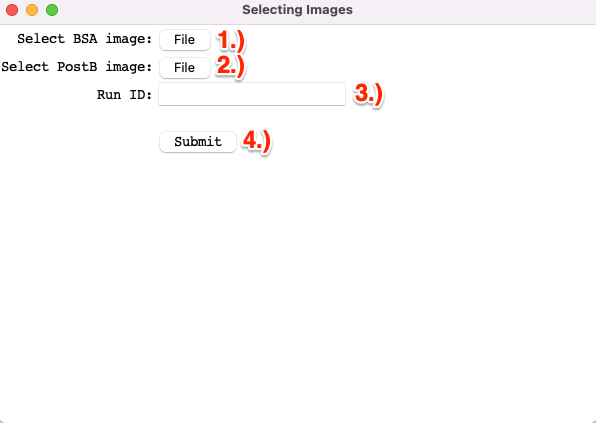
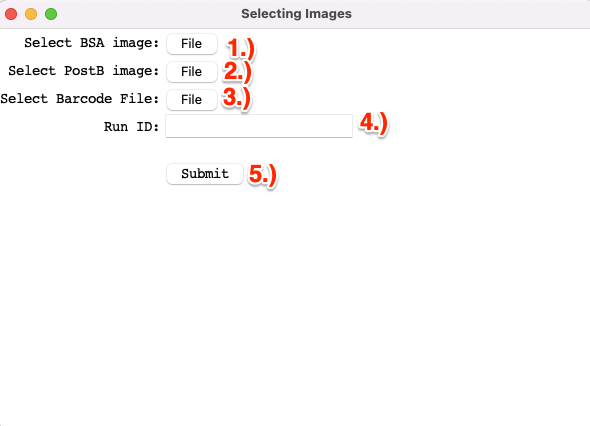
Added info about barcode file

diff --git a/docs/_build/html/searchindex.js b/docs/_build/html/searchindex.js
@@ -1,1 +1,1 @@
-Search.setIndex({docnames:["ExampleWalkthrough","ImageConfiguration","Installation","OpeningFolder","Overview","ROICharacterization","SpatialFolder","Thresholding","index"],envversion:{"sphinx.domains.c":2,"sphinx.domains.changeset":1,"sphinx.domains.citation":1,"sphinx.domains.cpp":4,"sphinx.domains.index":1,"sphinx.domains.javascript":2,"sphinx.domains.math":2,"sphinx.domains.python":3,"sphinx.domains.rst":2,"sphinx.domains.std":2,sphinx:56},filenames:["ExampleWalkthrough.rst","ImageConfiguration.rst","Installation.rst","OpeningFolder.rst","Overview.rst","ROICharacterization.rst","SpatialFolder.rst","Thresholding.rst","index.rst"],objects:{},objnames:{},objtypes:{},terms:{"0":[6,7],"1":[1,3,6],"100":[],"10x":4,"2":[1,3,6,7],"255":7,"3":[1,2,3,6],"4":[3,6],"5":[],"50":[],"6":[],"7":2,"8":7,"90":[0,1],"case":2,"do":[4,6,7],"function":6,"import":3,"long":1,"new":3,"return":2,"try":[],"while":[3,4,6],A:[3,4,5,6,7],As:[1,4,5,7],At:0,For:[0,2,5],If:[0,2,5],In:[0,1,3,5,6,7],On:[0,4,5],One:5,The:[0,1,3,4,5,6,7],Then:[0,3],These:[3,4,6],To:[0,2,3,5,7],With:[2,4],abl:[0,4,6],about:[0,4,5,6,8],abov:[0,1,3,4,5,7],abrows:2,accompani:6,accord:6,account:7,accur:0,aciv:[0,8],across:4,activ:[0,1,2,5,7],adap:0,adapt:[0,4,5,7],adher:4,adjust:[4,5],affect:0,after:[3,4,6],again:5,albumin:3,align:[0,5],all:[0,2,5,6,7],allow:[0,1,3,4,5,6],along:[5,6],also:[0,1,3,4],alwai:0,amend:5,an:[0,2,3,4,5,6,7],anaconda:2,analysi:4,ani:[2,3,4,5,6],appear:[0,3,5],ar:[0,1,3,4,5,6,7],area:1,aspect:4,assai:4,associ:[0,3,4],assumpt:7,atla:2,atlasbrow:5,atlasxbrows:[0,3,4,5,6],atlasxom:[2,8],automat:5,avaiabl:4,avail:2,azur:[],b:[3,4,5],back:[0,4,5,6],background:5,barcod:[4,5,6],base:[0,5,7],basi:4,been:[0,1,3,4,5,6],befor:2,begin:[0,1,3,4],being:[0,1,4,5,7],below:[0,1,4,5,7],between:[0,1,7],binar:[4,5,7],bioinformat:4,biolog:[0,4,7],black:[0,5,7],blocksiz:[0,6,7],blue:[],border:0,both:[0,3,4,5,6],bottom:0,boundari:4,bovin:3,box:[0,1,5],brightfi:4,brightfield:3,broswer:[],browser:[0,1,2,3,5,6],bsa:[0,3,4,5,6],buffer:0,built:4,button:[0,1,5,7],bw:5,c:[0,2,7],calcul:7,call:[4,5],can:[0,1,2,3,4,5,6,7],captur:1,caus:7,cd:2,chang:[0,1,5,6],channel:[0,3,4,5],character:8,check:[0,2,5],chip:[0,1,3,4,5],choos:6,chosen:[0,6],circl:5,clamp:4,classif:[0,4,5,7],classifi:7,clear:[0,3,5],click:[0,1,5,6],clockwis:[0,1],clone:2,close:5,cluster:4,codebas:2,color:[0,3,5,6,7],column:[5,6],com:2,combin:5,come:5,command:2,common:[],commun:4,comput:1,conda:2,confid:[0,5],configur:[0,3,7,8],confirm:[0,1,5,7],conjunct:4,consid:4,constant:7,contain:[0,1,3,4,5,6],content:6,context:4,continu:3,contrast:[0,7],control:[4,6],convers:7,convert:7,coordin:[4,5,6],corner:[0,1,3,5,6],correspond:[0,3,4,5,6,7],count:[4,6],counter:[0,1],coupl:4,cover:[0,5],creat:[0,2,3,4,5,6,7],criteria:1,crop:[0,5,6,8],csv:6,current:[0,2],dark:0,darker:7,data:4,date:2,dbit:[4,5],deactiv:2,decis:[0,6],decreas:7,defin:[0,5],degre:[0,1,6],delin:[4,6],delini:[],demand:1,depend:8,describ:[1,7],design:[5,6,7],desir:[0,1,3,5,7],determin:[0,7],differ:[0,1,3,7],digit:7,directli:[0,6,7],directori:[0,2,3,6],discern:5,discret:7,displai:[0,5,6],dissapear:3,distanc:4,distribut:2,divid:7,dna:4,doe:7,done:[3,5,7],down:4,download:8,drag:[0,1,5],drawn:[0,5],due:1,dure:[5,6],dy:5,dye:[0,3,5],each:[0,1,3,4,5,6,7],easi:[3,4],easier:[3,5],edg:5,edit:0,either:[0,5,7],els:7,encapsul:1,enclos:[1,3],encod:4,encompass:5,enough:7,ensur:[0,2,5],enter:[0,6,8],entir:[0,1],envior:2,enviro:2,epifluoresc:[3,4],error:3,essenti:7,everi:[0,5],everyth:7,exactli:5,examin:[5,8],exampl:[4,8],excess:1,expand:0,expect:5,experi:[0,3,4,5],extra:0,facilit:[4,8],factor:7,far:7,fastai:2,featur:6,figur:4,file:[0,3,6],fill:[0,5],find:[6,7],fine:1,first:[0,3],fit:0,fix:[],flip:[0,5,6],flow:[3,4,5],flown:[3,4,5],fluid:5,fluoresc:[0,4,5,8],folder:[0,4,5,8],follow:[0,2,3,4,6],forc:1,forg:2,form:6,format:4,formazion:[],formerli:5,forth:5,found:6,four:[1,5,6],freeli:2,from:[0,1,3,4,5,6,7],fulli:5,futur:1,gene:6,gener:[3,4,6],git:2,github:2,given:7,glass:4,goal:4,goe:1,good:[0,7],gradient:[0,7],graphic:8,green:0,grid:[0,5,6,7],group:4,guess:[],guid:[2,4,7,8],ha:[0,1,3,4,5,6,7],had:4,hand:5,harm:0,have:[0,3,4,5],headless:2,height:6,help:4,here:[0,2,4,6],high:[0,6],highli:[2,3],highlight:[],horizont:[0,4,5],host:2,how:[0,3,4,5,7],howev:[0,6],http:2,hypothet:0,i_l:7,id:[0,3],ideal:[5,7],ident:6,identif:3,identifi:[4,5,6],imag:[0,4,5,6,7,8],inclu:0,includ:[0,4,5,6],incorpor:4,index:6,indic:[5,6],indifi:0,individu:5,infer:[4,7],inform:[4,5,6],infrenc:[],input:[],insight:4,instal:8,intens:[1,7],interest:[0,3,4,6,8],interfac:8,interrog:4,isntal:2,item:6,its:0,itself:1,jsbeautifi:2,json:6,just:5,kept:1,knowledg:5,label:[0,3,6],labl:0,larg:7,larger:[4,7],last:5,latest:2,layer:5,lead:7,learn:8,leav:1,left:[0,2,3,6],less:1,level:[],light:[0,7],like:4,limit:6,line:[0,1,5],list:[0,2],load:[0,1,4,8],local:[2,7],locat:[0,3,6,8],log:6,lose:4,low:[0,6],luckili:2,machin:2,made:[0,3,5,6],magic:[],mai:3,main:3,make:[1,3,4,5,7],manag:8,mani:[0,1,5,7],manual:6,map:[4,5,6],matplotlib:2,maxim:0,mean:[0,5,7],metadata:[4,6,8],microfluid:[],microscop:3,minim:6,misclassifi:7,mix:3,modifi:5,modul:[],molecular:4,more:[7,8],most:6,mous:[1,5],move:1,much:[3,5,7],multipl:[2,5,6],must:[0,2,3,5,6,7],name:[2,3],narrow:5,navig:[0,1,2,3,5,6,7],necessari:[0,2,4],necissari:0,neither:4,neon:[1,5],newli:[5,6],next:5,non:7,note:[0,1,3,5],notic:[0,3],now:[0,1,3],number:[6,7],observ:[5,7],obtain:4,occur:[3,4],off:[0,1,4,5,6,7],omic:[4,8],onc:[0,1,2,3,4,5,6,7],one:[0,1,5,6,7],onto:[0,4,5],ontop:[4,5,7],open:[2,6],opencv:2,opportun:0,optim:[0,7],option:[0,5,6],order:[0,1,3,6,7],orient:[0,1,3,5,6],origin:[0,6],other:4,our:4,out:1,outcom:7,outer:[0,5],outlin:1,output:4,outsid:[0,2,3,5],over:[0,5],overfit:7,overlai:[0,8],overlap:[3,4,5],overview:8,packag:[2,4],page:[],panda:2,paralel:4,paramet:8,part:7,particular:[0,3,4],pattern:5,peopl:4,pertain:3,pictur:4,piec:[],pillow:2,pip:[],pipelin:[],pixel:[0,5,6,7],place:[0,1,4,5],placement:[0,5],plane:4,png:6,point:[0,3,4,5,7],pop:[0,3],popup:[0,3,5],portion:0,possibilit:7,possibl:[1,5],postb:[0,3],practic:5,precis:0,predict:[4,5,6],preform:4,prepar:[3,4],present:[],preserv:5,previou:[0,5],previous:0,primari:[],problem:[],proce:[0,3],procedur:[],process:[0,1,3,4,5,6,7,8],produc:[0,7],program:1,prompt:[],proper:[2,3,5],properli:[0,1,2,5,7],proport:7,provd:[],pull:2,pure:7,py37:2,py:2,python:2,qualiti:[4,6],rang:7,raw:6,re:[0,1,5,6],reactiv:2,read:[4,5,6],readi:2,reason:[2,5],reccomend:[2,3],reciev:7,reconfigur:1,rectangl:[0,5],red:[0,1,5],refer:7,region:[0,3,4,7,8],regul:7,relev:[3,6],reli:[],reliant:4,remain:0,rememb:7,remov:[3,4],repeat:2,requir:[0,2,3],research:4,resolut:6,respect:6,rest:[1,7],result:[1,4,5,7],review:0,right:[0,1,3,4,5,7],risk:7,roi:[0,1,3,4,6,8],role:[],room:0,rotat:[0,3,6,8],row:[0,3,4,5,6],run:[0,3,4,7,8],s:[1,6],said:6,same:[0,3,5],sampl:4,save:[3,6],scipi:2,screen:[0,1,3,5,7],seaborn:2,search:[],second:[0,3],section:[0,1,3,4,5,7],see:[0,2,3],seek:[],seen:[0,4],select:[0,1,3,5,6,7],sent:[],seq:[4,5],sequenc:[4,5],serum:3,serv:5,set:[0,3,6],shap:1,should:[0,2,3,5],show:5,shown:[0,4,5],side:[0,1,2,4,5,7],site:[4,5,7],size:7,slide:[4,5,7],slider:[0,7],small:7,smaller:7,so:[4,7],softwar:2,solut:3,solv:[],some:0,somewhat:7,sourc:2,space:[1,4],spatial:[0,3,4,5,8],specif:[6,8],specifc:2,specifi:[0,6],spot:4,squar:[0,1,3,5],stage:5,stain:[0,4,5,8],start:6,state:[0,5,6],step:[0,1,3,4,5,6,7],still:1,store:[3,6],stretch:0,submit:[0,3],subtract:7,system:2,t:7,tab:[0,1,3,5,6,7],take:[4,7],taken:[3,4,6,7],techniqu:4,technolog:1,term:[],termin:2,textbox:3,than:7,thei:[0,3,4,5,6],them:[0,1,5],theme:[],theshold:0,thi:[0,1,2,3,4,5,6,7],those:7,three:6,threshold:[0,4,5,6,8],thresholdingt:[],through:[0,3,4,5,6],thu:7,tifffil:2,time:[0,1],tissu:[0,4,5,6,7,8],tissue_highres_imag:6,tissue_lowres_imag:6,tissue_positions_list:6,tissue_positions_list_log_umi_gen:6,titl:[3,6],tixel:[0,4,6,7,8],too:7,top:[0,3,5],total:6,transform:6,truli:7,ttk:[],tune:8,turn:[0,7],two:[3,4,7],umap:4,umi:[4,6],under:[0,1,5,6,7],underli:[3,5],understand:7,unexpand:1,uniform:7,uniqu:[0,4,5,6],unlik:0,unnecessari:1,until:2,up:[0,2,3],updat:2,upon:[0,1,3,5,6],us:[0,1,2,3,4,5,6,7,8],usag:2,user:[0,3,4,5,6,8],util:[1,8],valid:[0,5],valu:[0,6,7],variabl:7,variou:1,veri:3,versa:5,version:[0,2,6],vertic:[0,4,5],vice:5,view:[0,5,6],virtual:2,visium:4,visual:[3,5,6],vs:7,wa:[1,2,3,4,5,6],wai:5,want:[0,2,3,5,6],we:[0,1,2,3,5,7],well:[2,4,5,6],were:6,what:[0,4,5,6],whatev:[0,3],when:[0,1,5,6,7],where:[2,3,7],whether:[0,6,7],which:[0,3,4,5,6,7],white:[0,5,7],why:1,window:[0,2,3],within:[0,1,3,4,5,6,7],without:[3,4],work:[0,4,5],workflow:4,would:[],x:[4,5,6],xx:2,y:[4,5,6],you:[0,2,5],your:[0,1,2,5,6]},titles:["Guided Example","Image Configuration","Installation","Loading Tissue images","Overview","Characterizing Region of Interest","Utilizing Spatial Folder","Thresholding","Welcome to AtlasXbrowser\u2019s Documentation!"],titleterms:{aciv:5,atlasxbrows:[2,8],character:5,configur:1,crop:1,depend:2,document:8,download:2,enter:3,examin:6,exampl:[0,7],fluoresc:3,folder:[3,6],guid:0,imag:[1,3],indic:[],instal:2,interest:5,load:[3,6],locat:5,manag:2,metadata:3,overlai:5,overview:4,paramet:7,region:5,roi:5,rotat:1,run:2,s:8,section:8,spatial:6,specif:3,stain:3,tabl:[],threshold:7,thresholdingt:[],tissu:3,tixel:5,tune:7,util:6,welcom:8}})
+Search.setIndex({docnames:["ExampleWalkthrough","ImageConfiguration","Installation","OpeningFolder","Overview","ROICharacterization","SpatialFolder","Thresholding","index"],envversion:{"sphinx.domains.c":2,"sphinx.domains.changeset":1,"sphinx.domains.citation":1,"sphinx.domains.cpp":4,"sphinx.domains.index":1,"sphinx.domains.javascript":2,"sphinx.domains.math":2,"sphinx.domains.python":3,"sphinx.domains.rst":2,"sphinx.domains.std":2,sphinx:56},filenames:["ExampleWalkthrough.rst","ImageConfiguration.rst","Installation.rst","OpeningFolder.rst","Overview.rst","ROICharacterization.rst","SpatialFolder.rst","Thresholding.rst","index.rst"],objects:{},objnames:{},objtypes:{},terms:{"0":[6,7],"1":[1,3,6],"100":[],"10x":4,"16":3,"2":[1,3,6,7],"2500":3,"255":7,"3":[1,2,3,6],"4":[3,6],"5":3,"50":3,"6":[],"7":2,"8":[3,7],"90":[0,1],"case":2,"do":[4,6,7],"function":6,"import":3,"long":1,"new":3,"return":2,"try":[],"while":[3,4,6],A:[3,4,5,6,7],As:[1,3,4,5,7],At:0,For:[0,2,5],If:[0,2,5],In:[0,1,3,5,6,7],On:[0,4,5],One:5,The:[0,1,3,4,5,6,7],Then:[0,3],These:[3,4,6],To:[0,2,3,5,7],With:[2,3,4],_:[],abl:[0,4,6],about:[0,4,5,6,8],abov:[0,1,3,4,5,7],abrows:2,accompani:6,accord:6,account:7,accur:0,aciv:[0,8],across:4,activ:[0,1,2,5,7],adap:0,adapt:[0,4,5,7],adher:4,adjust:[4,5],affect:0,after:[3,4,6],again:5,albumin:3,align:[0,5],all:[0,2,5,6,7],allow:[0,1,3,4,5,6],along:[5,6],also:[0,1,3,4],alwai:0,amend:5,an:[0,2,3,4,5,6,7],anaconda:2,analysi:4,ani:[2,3,4,5,6],appear:[0,3,5],ar:[0,1,3,4,5,6,7],area:1,aspect:4,assai:4,associ:[0,3,4],assumpt:7,atla:2,atlasbrow:5,atlasxbrows:[0,3,4,5,6],atlasxom:[2,8],automat:5,avaiabl:4,avail:2,azur:[],b:[3,4,5],back:[0,4,5,6],background:5,barcod:[4,5,6,8],base:[0,5,7],basi:4,bc50v1:3,been:[0,1,3,4,5,6],befor:2,begin:[0,1,3,4],being:[0,1,4,5,7],below:[0,1,4,5,7],between:[0,1,7],binar:[4,5,7],bioinformat:4,biolog:[0,4,7],black:[0,5,7],blocksiz:[0,6,7],blue:[],border:0,both:[0,3,4,5,6],bottom:0,boundari:4,bovin:3,box:[0,1,5],brightfi:4,brightfield:3,broswer:[],browser:[0,1,2,3,5,6],bsa:[0,3,4,5,6],buffer:0,built:4,button:[0,1,5,7],bw:5,c:[0,2,7],calcul:7,call:[4,5],can:[0,1,2,3,4,5,6,7],captur:1,caus:7,cd:2,chang:[0,1,5,6],channel:[0,3,4,5],character:8,check:[0,2,5],chip:[0,1,3,4,5],choos:6,chosen:[0,6],circl:5,clamp:4,classif:[0,4,5,7],classifi:7,clear:[0,3,5],click:[0,1,5,6],clockwis:[0,1],clone:2,close:5,cluster:4,codebas:2,color:[0,3,5,6,7],column:[5,6],com:2,combin:5,come:[3,5],command:2,common:[],commun:4,comput:1,conda:2,confid:[0,5],configur:[0,3,7,8],confirm:[0,1,5,7],conjunct:4,consid:4,constant:7,contain:[0,1,3,4,5,6],content:6,context:4,continu:3,contrast:[0,7],control:[4,6],convers:7,convert:7,coordin:[4,5,6],corner:[0,1,3,5,6],correspond:[0,3,4,5,6,7],count:[4,6],counter:[0,1],coupl:4,cover:[0,5],creat:[0,2,3,4,5,6,7],criteria:1,crop:[0,5,6,8],csv:6,current:[0,2],dark:0,darker:7,data:4,date:2,dbit:[3,4,5],deactiv:2,decis:[0,6],decreas:7,defin:[0,3,5],degre:[0,1,6],delin:[4,6],delini:[],demand:1,depend:8,describ:[1,7],design:[5,6,7],desir:[0,1,3,5,7],determin:[0,7],differ:[0,1,3,7],digit:7,directli:[0,6,7],directori:[0,2,3,6],discern:5,discret:7,displai:[0,5,6],dissapear:3,distanc:4,distribut:2,divid:7,dna:4,doe:[3,7],done:[3,5,7],down:4,download:8,drag:[0,1,5],drawn:[0,5],due:1,dure:[5,6],dy:5,dye:[0,3,5],each:[0,1,3,4,5,6,7],eas:3,easi:[3,4],easier:[3,5],edg:5,edit:0,either:[0,5,7],els:7,encapsul:1,enclos:[1,3],encod:4,encompass:5,enough:7,ensur:[0,2,5],enter:[0,6,8],entir:[0,1],envior:2,enviro:2,epifluoresc:[3,4],error:3,essenti:[3,7],everi:[0,5],everyth:7,exactli:5,examin:[5,8],exampl:[3,4,8],excess:1,expand:0,expect:5,experi:[0,3,4,5],extra:0,facilit:[4,8],factor:7,far:7,fastai:2,featur:6,figur:4,file:[0,3,6],fill:[0,5],find:[6,7],fine:1,first:[0,3],fit:0,fix:[],flip:[0,5,6],flow:[3,4,5],flown:[3,4,5],fluid:5,fluoresc:[0,4,5,8],folder:[0,4,5,8],follow:[0,2,3,4,6],forc:1,forg:2,form:6,format:4,formazion:[],formerli:5,forth:5,found:[3,6],four:[1,5,6],freeli:2,from:[0,1,3,4,5,6,7],fulli:5,futur:1,gene:6,gener:[3,4,6],git:2,github:[2,3],given:7,glass:4,goal:4,goe:1,good:[0,7],gradient:[0,7],graphic:8,green:0,grid:[0,5,6,7],group:4,guess:[],guid:[2,4,7,8],ha:[0,1,3,4,5,6,7],had:4,hand:5,harm:0,have:[0,3,4,5],headless:2,height:6,help:[3,4],here:[0,2,4,6],high:[0,6],highli:[2,3],highlight:[],horizont:[0,4,5],host:2,how:[0,3,4,5,7],howev:[0,6],http:2,hypothet:0,i_l:7,id:[0,3],ideal:[5,7],ident:6,identif:3,identifi:[4,5,6],imag:[0,4,5,6,7,8],inclu:0,includ:[0,4,5,6],incorpor:4,index:6,indic:[5,6],indifi:0,individu:5,infer:[4,7],inform:[4,5,6],infrenc:[],input:[],insight:4,instal:8,intens:[1,7],interest:[0,3,4,6,8],interfac:8,interrog:4,isntal:2,item:6,its:0,itself:1,jsbeautifi:2,json:6,just:5,kept:1,know:3,knowledg:5,label:[0,3,6],labl:0,larg:7,larger:[4,7],last:5,latest:2,layer:5,lead:7,learn:8,leav:1,left:[0,2,3,6],less:1,level:[],light:[0,7],like:4,limit:6,line:[0,1,3,5],list:[0,2],load:[0,1,4,8],local:[2,7],locat:[0,3,6,8],log:6,lose:4,low:[0,6],luckili:2,machin:2,made:[0,3,5,6],magic:[],mai:3,main:3,make:[1,3,4,5,7],manag:8,mani:[0,1,5,7],manual:6,map:[4,5,6],matplotlib:2,maxim:0,mean:[0,5,7],metadata:[4,6,8],microfluid:[],microscop:3,minim:6,misclassifi:7,mix:3,modifi:5,modul:[],molecular:4,more:[7,8],most:6,mous:[1,5],move:1,much:[3,5,7],multipl:[2,5,6],must:[0,2,3,5,6,7],name:[2,3],narrow:5,navig:[0,1,2,3,5,6,7],necessari:[0,2,4],necissari:0,need:3,neither:4,neon:[1,5],newli:[5,6],next:5,non:7,note:[0,1,3,5],notic:[0,3],now:[0,1,3],nucleotid:3,number:[6,7],observ:[5,7],obtain:4,occur:[3,4],off:[0,1,4,5,6,7],omic:[4,8],onc:[0,1,2,3,4,5,6,7],one:[0,1,3,5,6,7],onto:[0,4,5],ontop:[4,5,7],open:[2,6],opencv:2,opportun:0,optim:[0,7],option:[0,5,6],order:[0,1,3,6,7],orient:[0,1,3,5,6],origin:[0,6],other:4,our:4,out:1,outcom:7,outer:[0,5],outlin:1,output:4,outsid:[0,2,3,5],over:[0,5],overfit:7,overlai:[0,8],overlap:[3,4,5],overview:8,packag:[2,4],page:[],panda:2,paralel:4,paramet:8,part:7,particular:[0,3,4],pattern:5,peopl:4,pertain:3,pictur:4,piec:[],pillow:2,pip:[],pipelin:[],pixel:[0,5,6,7],place:[0,1,3,4,5],placement:[0,5],plane:4,png:6,point:[0,3,4,5,7],pop:[0,3],popup:[0,3,5],portion:0,possibilit:7,possibl:[1,5],postb:[0,3],practic:5,precis:0,predict:[4,5,6],preform:4,prepar:[3,4],present:[],preserv:5,previou:[0,5],previous:0,primari:[],problem:[],proce:[0,3],procedur:[],process:[0,1,3,4,5,6,7,8],produc:[0,7],program:1,prompt:[],proper:[2,3,5],properli:[0,1,2,5,7],proport:7,provd:[],pull:2,pure:7,py37:2,py:2,python:2,qualiti:[4,6],rang:7,raw:6,re:[0,1,5,6],reactiv:2,read:[4,5,6],readi:2,reason:[2,5],reccomend:[2,3],reciev:7,reconfigur:1,rectangl:[0,5],red:[0,1,5],refer:7,region:[0,3,4,7,8],regul:7,relev:[3,6],reli:[],reliant:4,remain:0,rememb:7,remov:[3,4],repeat:2,requir:[0,2,3],research:4,resolut:6,respect:6,rest:[1,7],result:[1,4,5,7],review:0,right:[0,1,3,4,5,7],risk:7,roi:[0,1,3,4,6,8],role:[],room:0,rotat:[0,3,6,8],row:[0,3,4,5,6],run:[0,3,4,7,8],s:[1,6],said:6,same:[0,3,5],sampl:4,save:[3,6],scipi:2,screen:[0,1,3,5,7],seaborn:2,search:[],second:[0,3],section:[0,1,3,4,5,7],see:[0,2,3],seek:[],seen:[0,4],select:[0,1,3,5,6,7],sent:[],seq:[4,5],sequenc:[3,4,5],serum:3,serv:5,set:[0,3,6],shap:1,should:[0,2,3,5],show:5,shown:[0,4,5],side:[0,1,2,4,5,7],site:[4,5,7],size:7,slide:[4,5,7],slider:[0,7],small:7,smaller:7,so:[4,7],softwar:2,solut:3,solv:[],some:0,somewhat:7,sourc:2,space:[1,4],spatial:[0,3,4,5,8],specif:[6,8],specifc:2,specifi:[0,6,8],spot:4,squar:[0,1,3,5],stage:5,stain:[0,4,5,8],start:6,state:[0,5,6],step:[0,1,3,4,5,6,7],still:1,store:[3,6],stretch:0,submit:[0,3],subtract:7,system:2,t:7,tab:[0,1,3,5,6,7],take:[4,7],taken:[3,4,6,7],techniqu:4,technolog:1,term:[],termin:2,textbox:3,than:7,thei:[0,3,4,5,6],them:[0,1,5],theme:[],theshold:0,thi:[0,1,2,3,4,5,6,7],third:3,those:7,three:6,threshold:[0,4,5,6,8],thresholdingt:[],through:[0,3,4,5,6],thu:7,tifffil:2,time:[0,1],tissu:[0,4,5,6,7,8],tissue_highres_imag:6,tissue_lowres_imag:6,tissue_positions_list:6,tissue_positions_list_log_umi_gen:6,titl:[3,6],tixel:[0,3,4,6,7,8],too:7,top:[0,3,5],total:6,transform:6,truli:7,ttk:[],tune:8,turn:[0,7],two:[3,4,7],txt:3,umap:4,umi:[4,6],under:[0,1,5,6,7],underli:[3,5],understand:7,unexpand:1,uniform:7,uniqu:[0,3,4,5,6],unlik:0,unnecessari:1,until:2,up:[0,2,3],updat:2,upon:[0,1,3,5,6],us:[0,1,2,3,4,5,6,7,8],usag:2,user:[0,3,4,5,6,8],util:[1,8],valid:[0,5],valu:[0,6,7],variabl:7,variou:1,veri:3,versa:5,version:[0,2,6],vertic:[0,4,5],vice:5,view:[0,5,6],virtual:2,visium:4,visual:[3,5,6],vs:7,wa:[1,2,3,4,5,6],wai:5,want:[0,2,3,5,6],we:[0,1,2,3,5,7],well:[2,4,5,6],were:6,what:[0,4,5,6],whatev:[0,3],when:[0,1,5,6,7],where:[2,3,7],whether:[0,6,7],which:[0,3,4,5,6,7],white:[0,5,7],why:1,window:[0,2,3],within:[0,1,3,4,5,6,7],without:[3,4],work:[0,4,5],workflow:4,would:[],x:[4,5,6],xx:2,y:[4,5,6],you:[0,2,5],your:[0,1,2,5,6]},titles:["Guided Example","Image Configuration","Installation","Loading Tissue images","Overview","Characterizing Region of Interest","Utilizing Spatial Folder","Thresholding","Welcome to AtlasXbrowser\u2019s Documentation!"],titleterms:{aciv:5,atlasxbrows:[2,8],barcod:3,character:5,configur:1,crop:1,depend:2,document:8,download:2,enter:3,examin:6,exampl:[0,7],fluoresc:3,folder:[3,6],guid:0,imag:[1,3],indic:[],instal:2,interest:5,load:[3,6],locat:5,manag:2,metadata:3,overlai:5,overview:4,paramet:7,region:5,roi:5,rotat:1,run:2,s:8,section:8,spatial:6,specif:3,specifi:3,stain:3,tabl:[],threshold:7,thresholdingt:[],tissu:3,tixel:5,tune:7,util:6,welcom:8}})

diff --git a/docs/_build/html/OpeningFolder.html b/docs/_build/html/OpeningFolder.html
@@ -44,6 +44,7 @@
 <li class="toctree-l1 current"><a class="current reference internal" href="#">Loading Tissue images</a><ul>
 <li class="toctree-l2"><a class="reference internal" href="#image-specifications-and-fluorescent-staining">Image Specifications and Fluorescent Staining</a></li>
 <li class="toctree-l2"><a class="reference internal" href="#image-folder-specifications">Image Folder Specifications</a></li>
+<li class="toctree-l2"><a class="reference internal" href="#specifying-barcode-folder">Specifying Barcode Folder</a></li>
 <li class="toctree-l2"><a class="reference internal" href="#loading-image-and-entering-metadata">Loading Image and Entering Metadata</a></li>
 </ul>
 </li>
@@ -114,6 +115,18 @@ new folder pertaining this particular run which will store these two images, and
 </div></blockquote>
 <p>See above how a new folder was created, storing the BSA and postB images to be used by AtlasXbrowser.</p>
 </section>
+<section id="specifying-barcode-folder">
+<h2>Specifying Barcode Folder<a class="headerlink" href="#specifying-barcode-folder" title="Permalink to this headline"></a></h2>
+<p>Knowing the nucleotide sequence corresponding to each channel in both and A and B chip is essential. To allow
+for this AtlasXbrowser requires the loading of a Barcode File. This is a .txt file that contains the unique barcode identifer
+for each unique nucleotide barcode sequence.</p>
+<blockquote>
+<div><img alt="_images/barcodefile.png" src="_images/barcodefile.png" />
+</div></blockquote>
+<p>Above is an example of a barcode file for a DBiT run using 50 channel chips. As such there are 2500 lines, each one corresponding to the unique 16 nucleotides
+that define each tixel. With 8 of these coming from the one channel on the A chip and 8 coming from a channel on the B chip.</p>
+<p>The file used above can is named “bc50v1.txt” and be found on the AtlasXbrowser <a class="reference external" href="https://github.com/atlasxomics/AtlasXbrowser.git">Github</a>.</p>
+</section>
 <section id="loading-image-and-entering-metadata">
 <h2>Loading Image and Entering Metadata<a class="headerlink" href="#loading-image-and-entering-metadata" title="Permalink to this headline"></a></h2>
 <p>In order to begin processing the tissue image, the relevant images must be loaded in.</p>
@@ -143,8 +156,10 @@ new folder pertaining this particular run which will store these two images, and
 <p><strong>1.)</strong> Select <strong>File</strong> in the first row of the pop-up titled, “Select BSA Image”. Then navigate to the directory
 of the image folder, and select the BSA image.</p>
 <p><strong>2.)</strong> Select <strong>File</strong> in the second row, labeled “Select postB Image”. Navigate to the image folder, and select the postB image.</p>
-<p><strong>3.)</strong> Enter the desired name of the run in the textbox.</p>
-<p><strong>4.)</strong> Once the images have been loaded in without error, and the run ID entered, select <strong>Submit</strong> to continue with the image processing.</p>
+<p><strong>3.)</strong> Select <strong>File</strong> in the third row, labeled “Select Barcode File”. Navigate to and select the desired barcode file.</p>
+<p><em>Note:*</em> While the barcode file does not need to be stored in the same image folder, it can be helpful to place it there for ease of navigation.</p>
+<p><strong>4.)</strong> Enter the desired name of the run in the textbox.</p>
+<p><strong>5.)</strong> Once the images have been loaded in without error, and the run ID entered, select <strong>Submit</strong> to continue with the image processing.</p>
 <p>Upon selecting <strong>Submit</strong>, the popup should dissapear and the BSA image loaded into the main window of the Browser.</p>
 <p>This metadata will be saved and stored in the associated Spatial Folder for this experiment.
 Now we can proceed to configuring the image.</p>

diff --git a/docs/_build/html/index.html b/docs/_build/html/index.html
@@ -90,6 +90,7 @@ Learn more about <a class="reference external" href="https://www.atlasxomics.com
 <li class="toctree-l1"><a class="reference internal" href="OpeningFolder.html">Loading Tissue images</a><ul>
 <li class="toctree-l2"><a class="reference internal" href="OpeningFolder.html#image-specifications-and-fluorescent-staining">Image Specifications and Fluorescent Staining</a></li>
 <li class="toctree-l2"><a class="reference internal" href="OpeningFolder.html#image-folder-specifications">Image Folder Specifications</a></li>
+<li class="toctree-l2"><a class="reference internal" href="OpeningFolder.html#specifying-barcode-folder">Specifying Barcode Folder</a></li>
 <li class="toctree-l2"><a class="reference internal" href="OpeningFolder.html#loading-image-and-entering-metadata">Loading Image and Entering Metadata</a></li>
 </ul>
 </li>

diff --git a/docs/OpeningFolder.rst b/docs/OpeningFolder.rst
@@ -39,6 +39,20 @@ new folder pertaining this particular run which will store these two images, and
 
 See above how a new folder was created, storing the BSA and postB images to be used by AtlasXbrowser.
 
+Specifying Barcode Folder
+#########################
+
+Knowing the nucleotide sequence corresponding to each channel in both and A and B chip is essential. To allow
+for this AtlasXbrowser requires the loading of a Barcode File. This is a .txt file that contains the unique barcode identifer
+for each unique nucleotide barcode sequence.
+
+    .. image:: /images/barcodefile.png
+
+Above is an example of a barcode file for a DBiT run using 50 channel chips. As such there are 2500 lines, each one corresponding to the unique 16 nucleotides
+that define each tixel. With 8 of these coming from the one channel on the A chip and 8 coming from a channel on the B chip.
+
+The file used above can is named "bc50v1.txt" and be found on the AtlasXbrowser `Github`_. 
+
 Loading Image and Entering Metadata
 ###################################
 In order to begin processing the tissue image, the relevant images must be loaded in.
@@ -60,11 +74,18 @@ of the image folder, and select the BSA image.
 
 **2.)** Select **File** in the second row, labeled "Select postB Image". Navigate to the image folder, and select the postB image.
 
-**3.)** Enter the desired name of the run in the textbox.
+**3.)** Select **File** in the third row, labeled "Select Barcode File". Navigate to and select the desired barcode file.
 
-**4.)** Once the images have been loaded in without error, and the run ID entered, select **Submit** to continue with the image processing.
+*Note:** While the barcode file does not need to be stored in the same image folder, it can be helpful to place it there for ease of navigation.
+
+**4.)** Enter the desired name of the run in the textbox.
+
+**5.)** Once the images have been loaded in without error, and the run ID entered, select **Submit** to continue with the image processing.
 
 Upon selecting **Submit**, the popup should dissapear and the BSA image loaded into the main window of the Browser.
 
 This metadata will be saved and stored in the associated Spatial Folder for this experiment.
 Now we can proceed to configuring the image.
+
+
+.. _Github: https://github.com/atlasxomics/AtlasXbrowser.git
